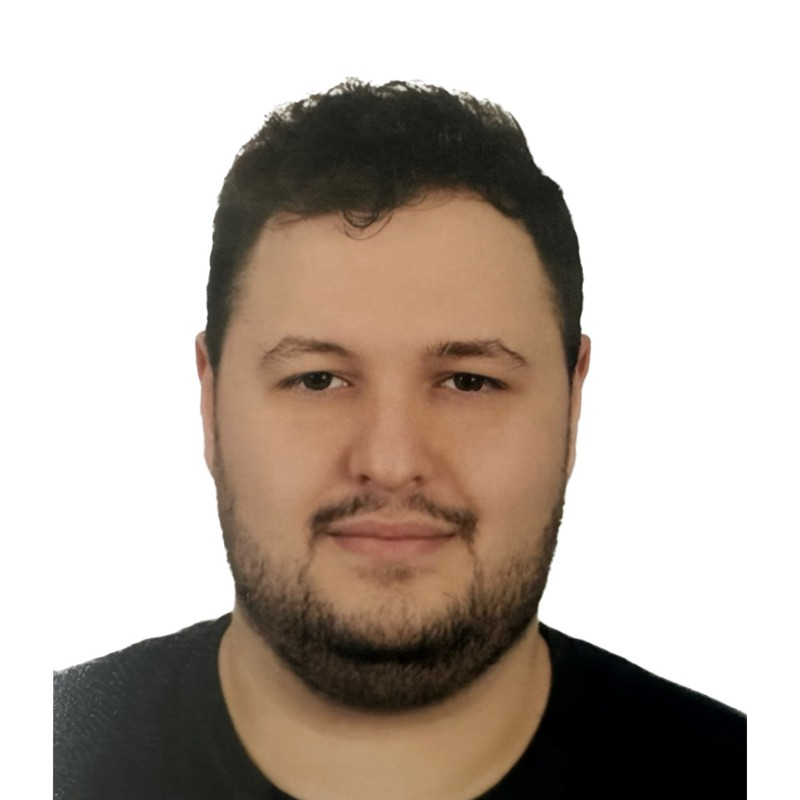
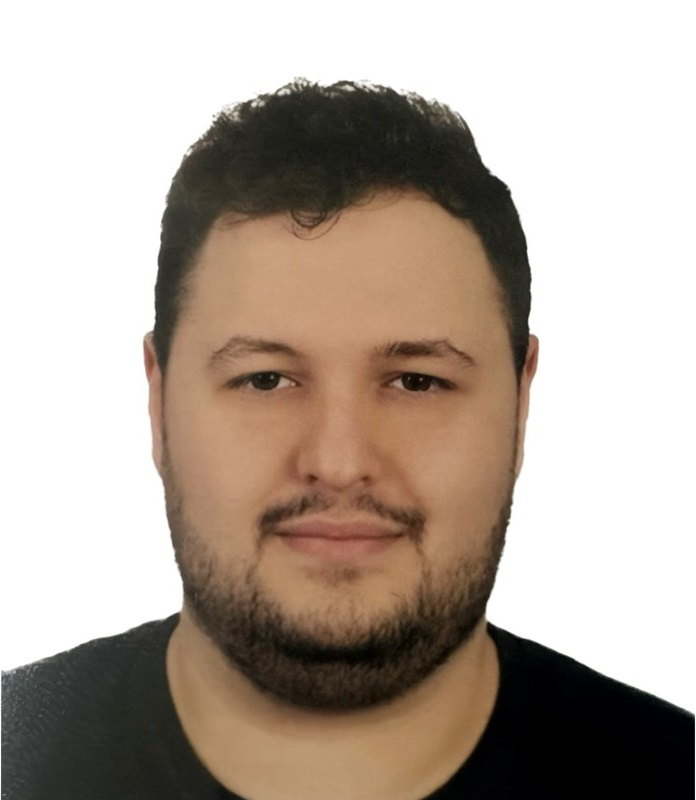
fix(index.html)

diff --git a/index.html b/index.html
@@ -440,7 +440,7 @@
                 </div>
                 <div class="col-sm-4">
                     <section class="resume-section skills-section mb-5">
-                        <h6 class="resume-section-title font-weight-bold pb-3 mb-3 text-md-right	">
+                        <h6 class="resume-section-title font-weight-bold pb-3 mb-0 text-md-right	">
                             Backend Technologies </h6>
                         <div class="resume-section-content">
                             <div class="resume-skill-item">
@@ -488,22 +488,22 @@
                                                 height="45px"/></br></br>
 
 
-                                            <h6 class="resume-section-title  font-weight-bold pb-3 mb-3 text-md-right	">
+                                            <h6 class="resume-section-title  font-weight-bold pb-3 mb-0 text-md-right	">
                                                 Database Technologies </h6>
                                             ▪ MSSQL <img
                                                 src="https://www.svgrepo.com/show/303229/microsoft-sql-server-logo.svg"
-                                                height="50px"/></br></br>
+                                                height="40px"/></br></br>
                                             ▪ PostgreSQL <img
                                                 src="https://upload.wikimedia.org/wikipedia/commons/thumb/2/29/Postgresql_elephant.svg/993px-Postgresql_elephant.svg.png"
-                                                height="30px"/></br></br>
+                                                height="25px"/></br></br>
                                             ▪ MongoDB <img src="https://www.svgrepo.com/show/331488/mongodb.svg"
-                                                           height="30px"/></br></br>
+                                                           height="30px"/></br>
                                             ▪ Elastic Search <img
                                                 src="https://camo.githubusercontent.com/d4cbacdc000de378e0dcae3b5ee54923c0ad04f6e52b7aa886a748fba5578def/68747470733a2f2f7777772e766563746f726c6f676f2e7a6f6e652f6c6f676f732f656c61737469632f656c61737469632d69636f6e2e737667"
-                                                height="30px"/></br></br>
+                                                height="25px"/></br></br>
                                             ▪ Redis <img
                                                 src="https://cdn4.iconfinder.com/data/icons/redis-2/1451/Untitled-2-512.png"
-                                                height="30px"/></br></br>
+                                                height="25px"/></br></br>
                                             ▪ FireBase <img
                                                 src="https://w7.pngwing.com/pngs/398/821/png-transparent-firebase-google-google-i-o-icon.png"
                                                 height="30px"/></br></br>
@@ -615,28 +615,42 @@
 </footer>
 
 
-<div id="config-panel" class="config-panel d-none d-lg-block">
-    <div class="panel-inner">
-        <a id="config-trigger" class="config-trigger config-panel-hide text-center" href="#"><i
-                class="fas fa-cog fa-spin mx-auto" data-fa-transform="down-6"></i></a>
-        <h5 class="panel-title">Choose Colour</h5>
-        <ul id="color-options" class="list-inline mb-0">
-            <li class="theme-1 active list-inline-item"><a data-style="assets/css/pillar-1.css" href="#"></a></li>
-            <li class="theme-2  list-inline-item"><a data-style="assets/css/pillar-2.css" href="#"></a></li>
-            <li class="theme-3  list-inline-item"><a data-style="assets/css/pillar-3.css" href="#"></a></li>
-            <li class="theme-4  list-inline-item"><a data-style="assets/css/pillar-4.css" href="#"></a></li>
-            <li class="theme-5  list-inline-item"><a data-style="assets/css/pillar-5.css" href="#"></a></li>
-            <li class="theme-6  list-inline-item"><a data-style="assets/css/pillar-6.css" href="#"></a></li>
-        </ul>
-        <a id="config-close" class="close" href="#"><i class="fa fa-times-circle"></i></a>
-    </div><!--//panel-inner-->
-</div><!--//configure-panel-->
+<!--<div id="config-panel" class="config-panel d-none d-lg-block">-->
+<!--    <div class="panel-inner">-->
+<!--        <a id="config-trigger" class="config-trigger config-panel-hide text-center" href="#"><i-->
+<!--                class="fas fa-cog fa-spin mx-auto" data-fa-transform="down-6"></i></a>-->
+<!--        <h5 class="panel-title">Choose Colour</h5>-->
+<!--        <ul id="color-options" class="list-inline mb-0">-->
+<!--            <li class="theme-1 active list-inline-item"><a data-style="assets/css/pillar-1.css" href="#"></a></li>-->
+<!--            <li class="theme-2  list-inline-item"><a data-style="assets/css/pillar-2.css" href="#"></a></li>-->
+<!--            <li class="theme-3  list-inline-item"><a data-style="assets/css/pillar-3.css" href="#"></a></li>-->
+<!--            <li class="theme-4  list-inline-item"><a data-style="assets/css/pillar-4.css" href="#"></a></li>-->
+<!--            <li class="theme-5  list-inline-item"><a data-style="assets/css/pillar-5.css" href="#"></a></li>-->
+<!--            <li class="theme-6  list-inline-item"><a data-style="assets/css/pillar-6.css" href="#"></a></li>-->
+<!--        </ul>-->
+<!--        <a id="config-close" class="close" href="#"><i class="fa fa-times-circle"></i></a>-->
+<!--    </div>&lt;!&ndash;//panel-inner&ndash;&gt;-->
+<!--</div>&lt;!&ndash;//configure-panel&ndash;&gt;-->
 
 <!-- DEMO ONLY -->
 <script type="text/javascript" src="demo/jquery-3.4.1.min.js"></script>
 <script type="text/javascript" src="demo/demo.js"></script>
+<script src="https://cdnjs.cloudflare.com/ajax/libs/jspdf/2.4.0/jspdf.umd.min.js"></script>
 
 
+<style>
+    @media print {
+        body {
+            width: 100%;
+            margin: 0;
+            padding: 0;
+        }
+
+        .page {
+            page-break-before: always;
+        }
+    }
+</style>
 </body>
 </html>
 

diff --git a/assets/css/pillar-1.css b/assets/css/pillar-1.css
@@ -9726,7 +9726,7 @@ a.theme-btn-on-bg:hover, a.theme-btn-on-bg:focus, a.theme-btn-on-bg:active, .the
 
 
 .resume-header .picture {
-  width: 220.5px;
+  width: 191px;
 }
 
 .resume-header .name {
@@ -9841,7 +9841,7 @@ a.theme-btn-on-bg:hover, a.theme-btn-on-bg:focus, a.theme-btn-on-bg:active, .the
 }
 
 .resume-skill-name {
-  font-size: 1rem;
+  font-size: 0.5rem;
   color: #000000;
 }
 

diff --git a/assets/css/pillar-2.css b/assets/css/pillar-2.css
@@ -9714,7 +9714,7 @@ a.theme-btn-on-bg:hover, a.theme-btn-on-bg:focus, a.theme-btn-on-bg:active, .the
 }
 
 .resume-header .picture {
-  width: 203.5px;
+  width: 220.5px;
 }
 
 .resume-header .name {

diff --git a/assets/css/pillar-3.css b/assets/css/pillar-3.css
@@ -9714,7 +9714,7 @@ a.theme-btn-on-bg:hover, a.theme-btn-on-bg:focus, a.theme-btn-on-bg:active, .the
 }
 
 .resume-header .picture {
-  width: 203.5px;
+  width: 220.5px;
 }
 
 .resume-header .name {

diff --git a/assets/css/pillar-4.css b/assets/css/pillar-4.css
@@ -9714,7 +9714,7 @@ a.theme-btn-on-bg:hover, a.theme-btn-on-bg:focus, a.theme-btn-on-bg:active, .the
 }
 
 .resume-header .picture {
-  width: 203.5px;
+  width: 220.5px;
 }
 
 .resume-header .name {

diff --git a/assets/css/pillar-5.css b/assets/css/pillar-5.css
@@ -9714,7 +9714,7 @@ a.theme-btn-on-bg:hover, a.theme-btn-on-bg:focus, a.theme-btn-on-bg:active, .the
 }
 
 .resume-header .picture {
-  width: 203.5px;
+  width: 220.5px;
 }
 
 .resume-header .name {

diff --git a/assets/css/pillar-6.css b/assets/css/pillar-6.css
@@ -9696,7 +9696,7 @@ a.theme-btn-on-bg:hover, a.theme-btn-on-bg:focus, a.theme-btn-on-bg:active, .the
 }
 
 .resume-header .picture {
-  width: 203.5px;
+  width: 220.5px;
 }
 
 .resume-header .name {
